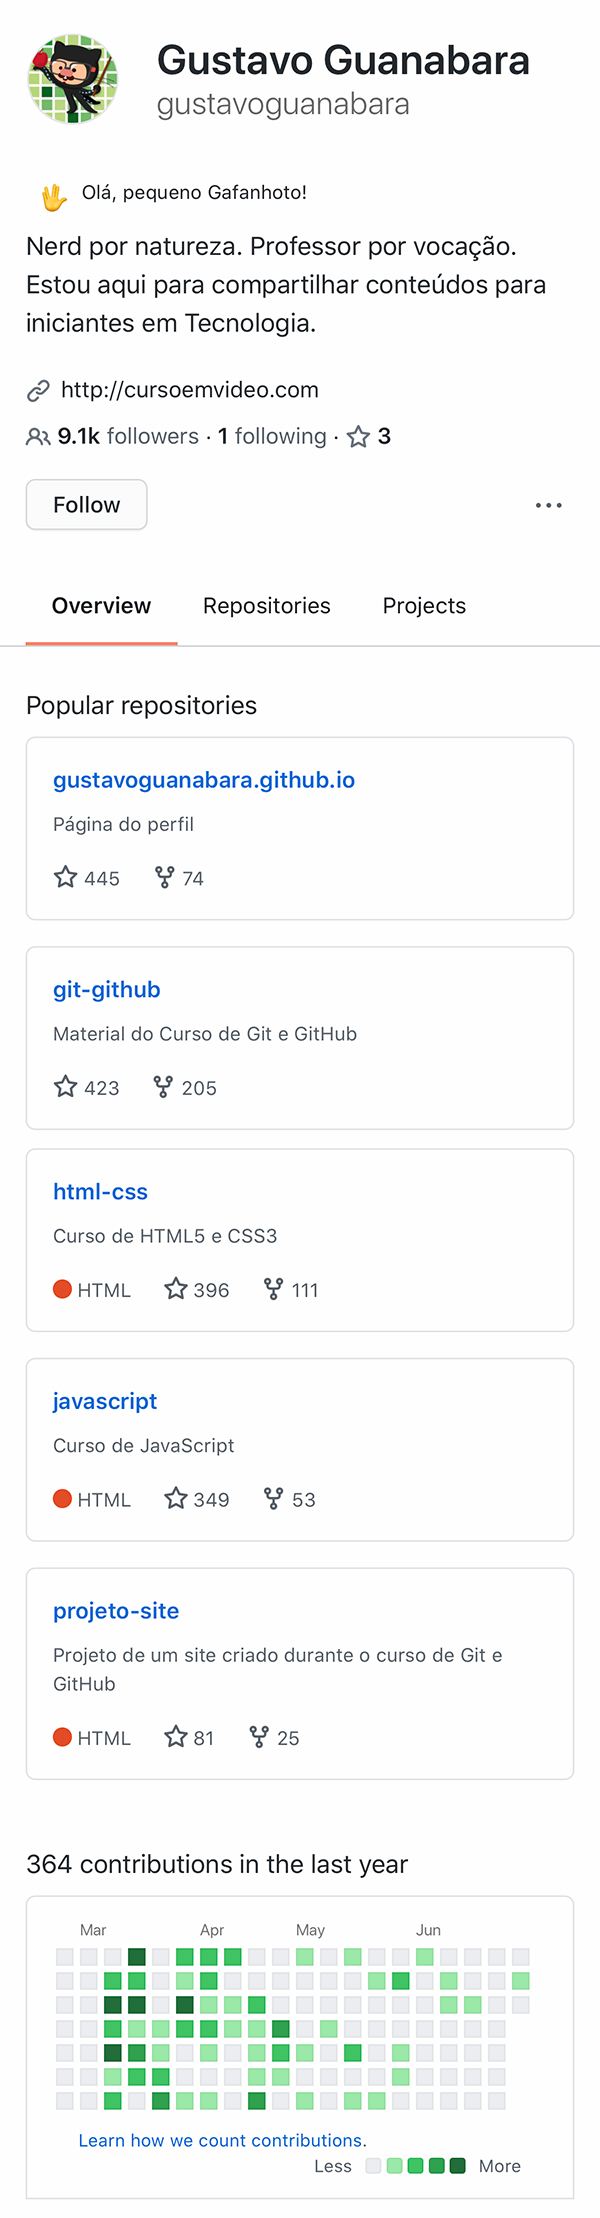
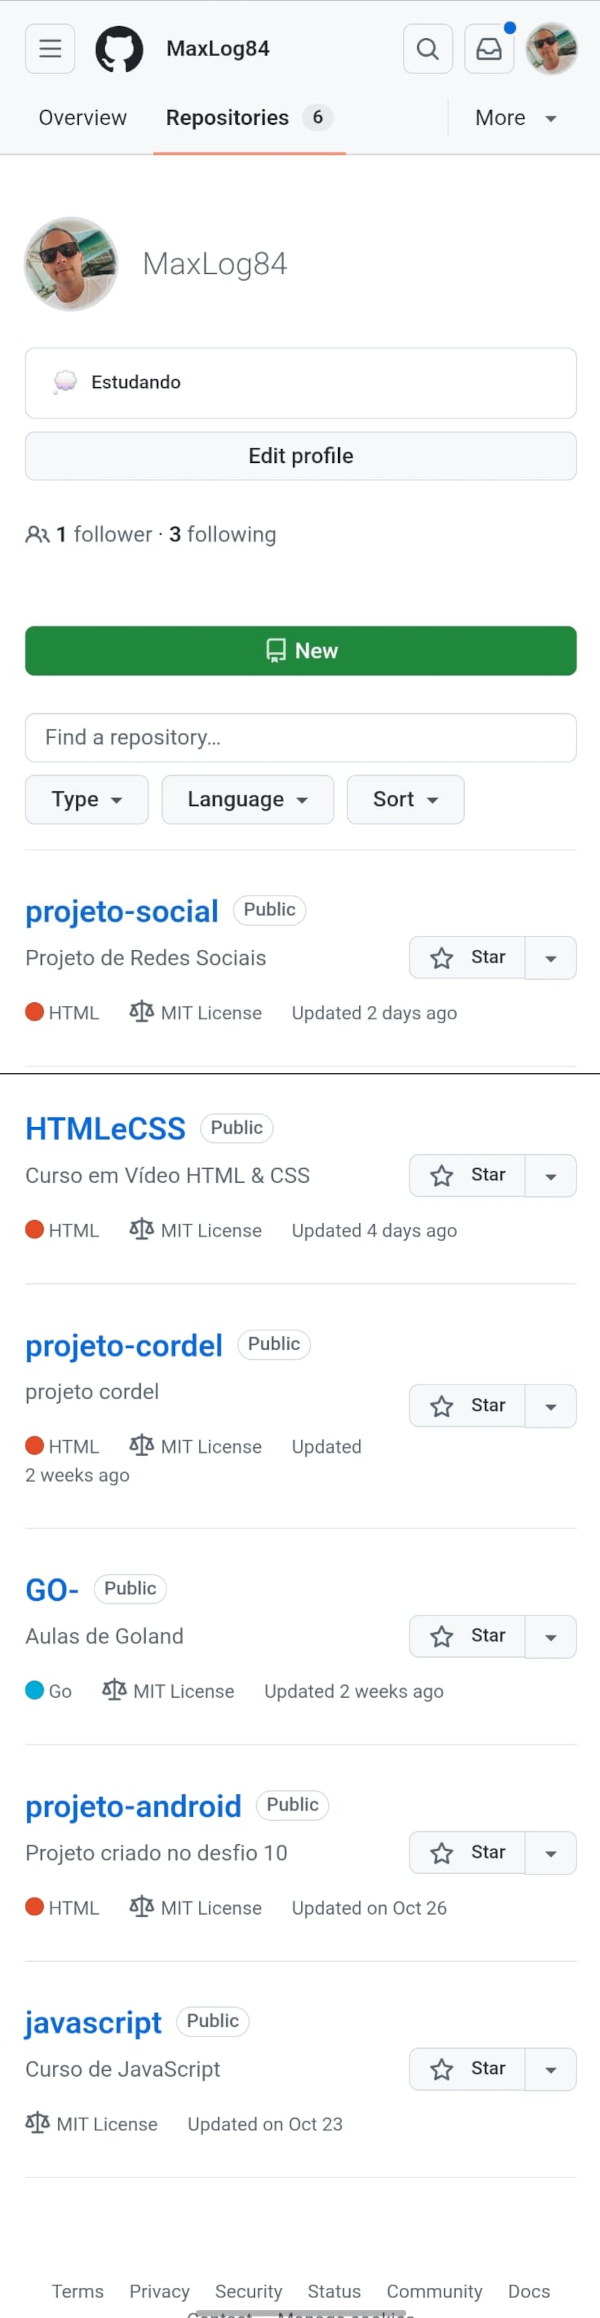
Finalizando

diff --git a/index.html b/index.html
@@ -17,7 +17,7 @@
             <a href="youtube.html" target="tela"><img src="imagens/logo-youtube.jpg" alt="YouTube"></a><br>
             <a href="github.html" target="tela"><img src="imagens/logo-github.jpg" alt="GitHub"></a><br>
             <a href="instagram.html" target="tela"><img src="imagens/logo-instagram.jpg" alt="Instagran"></a><br>
-            <a href="x.html" target="tela"><img src="imagens/logo-twitter.jpg" alt="X"></a><br>
+            <a href="x.html" target="tela"><img src="imagens/logo-X.jpg" alt="X"></a><br>
             <a href="facebook.html" target="tela"><img src="imagens/logo-facebook.jpg" alt="Facebook"></a><br>
         </section>
     </main>

diff --git a/x.html b/x.html
@@ -8,7 +8,7 @@
     
 </head>
 <body>
-    <img src="imagens/tela-twitter.jpg" alt="X">
+    <img src="imagens/tela-x.jpg" alt="X">
     <a href="https://x.com/?lang=pt" target="_blank">ACESSE</a>
 </body>
 </html>
